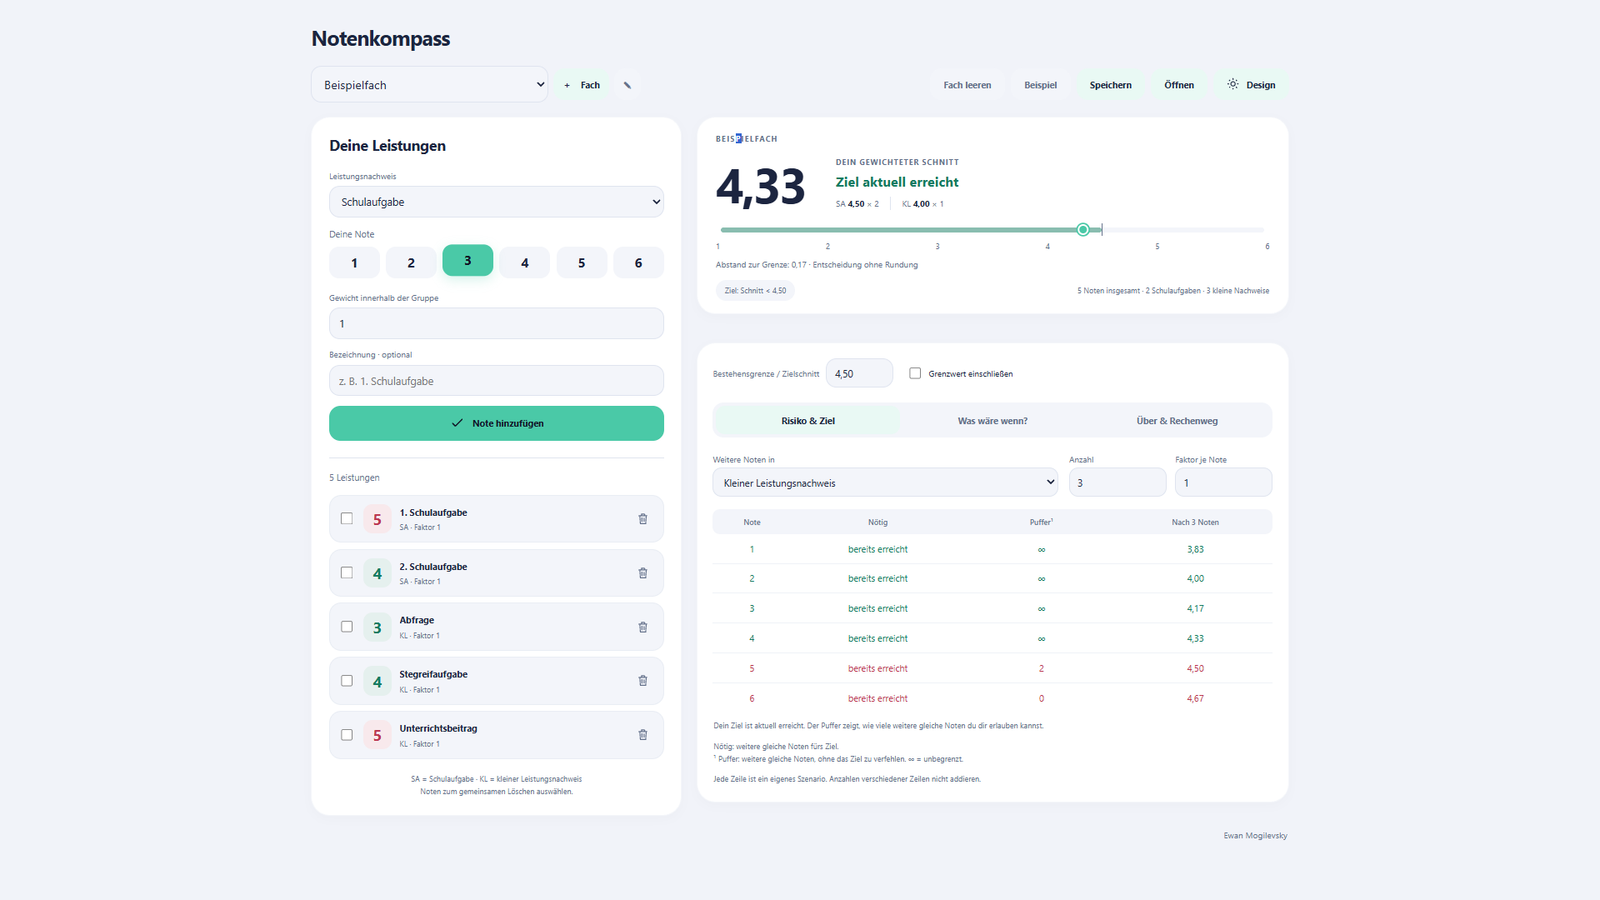
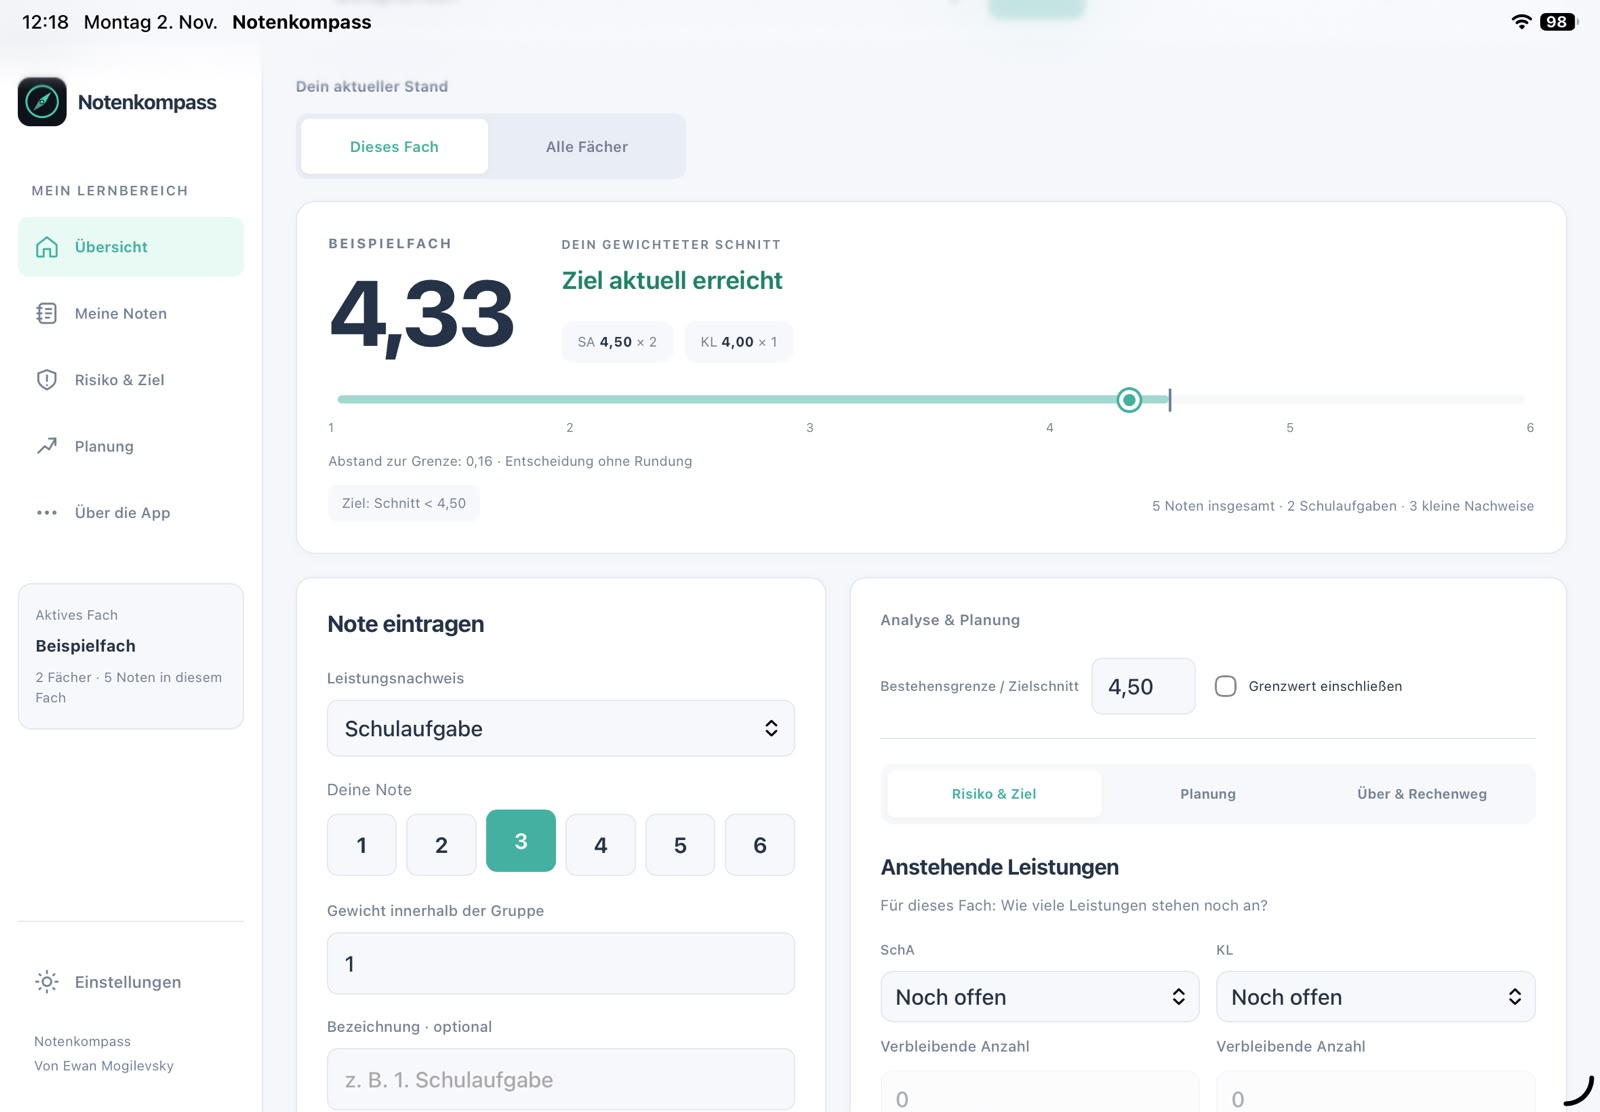
Configured README

diff --git a/README.md b/README.md
@@ -22,12 +22,12 @@ Es gibt eine Handy- und eine Computeransicht. Fächer und Noten werden im Browse
   <tr>
     <th>Übersicht</th>
     <th>Noten</th>
-    <th>Planung</th>
+    <th>Risiko</th>
   </tr>
   <tr>
     <td><a href="assets/screenshots/mobile-overview.png"><img src="assets/screenshots/mobile-overview.png" width="250" alt="Übersicht im Dunkelmodus"></a></td>
     <td><a href="assets/screenshots/mobile-grades.png"><img src="assets/screenshots/mobile-grades.png" width="250" alt="Liste der eingetragenen Noten"></a></td>
-    <td><a href="assets/screenshots/mobile-planning.png"><img src="assets/screenshots/mobile-planning.png" width="250" alt="Planung mit möglichen kommenden Noten"></a></td>
+    <td><a href="assets/screenshots/mobile-risk.png"><img src="assets/screenshots/mobile-risk.png" width="250" alt="Risikoansicht mit weiteren Notenszenarien"></a></td>
   </tr>
 </table>
 
